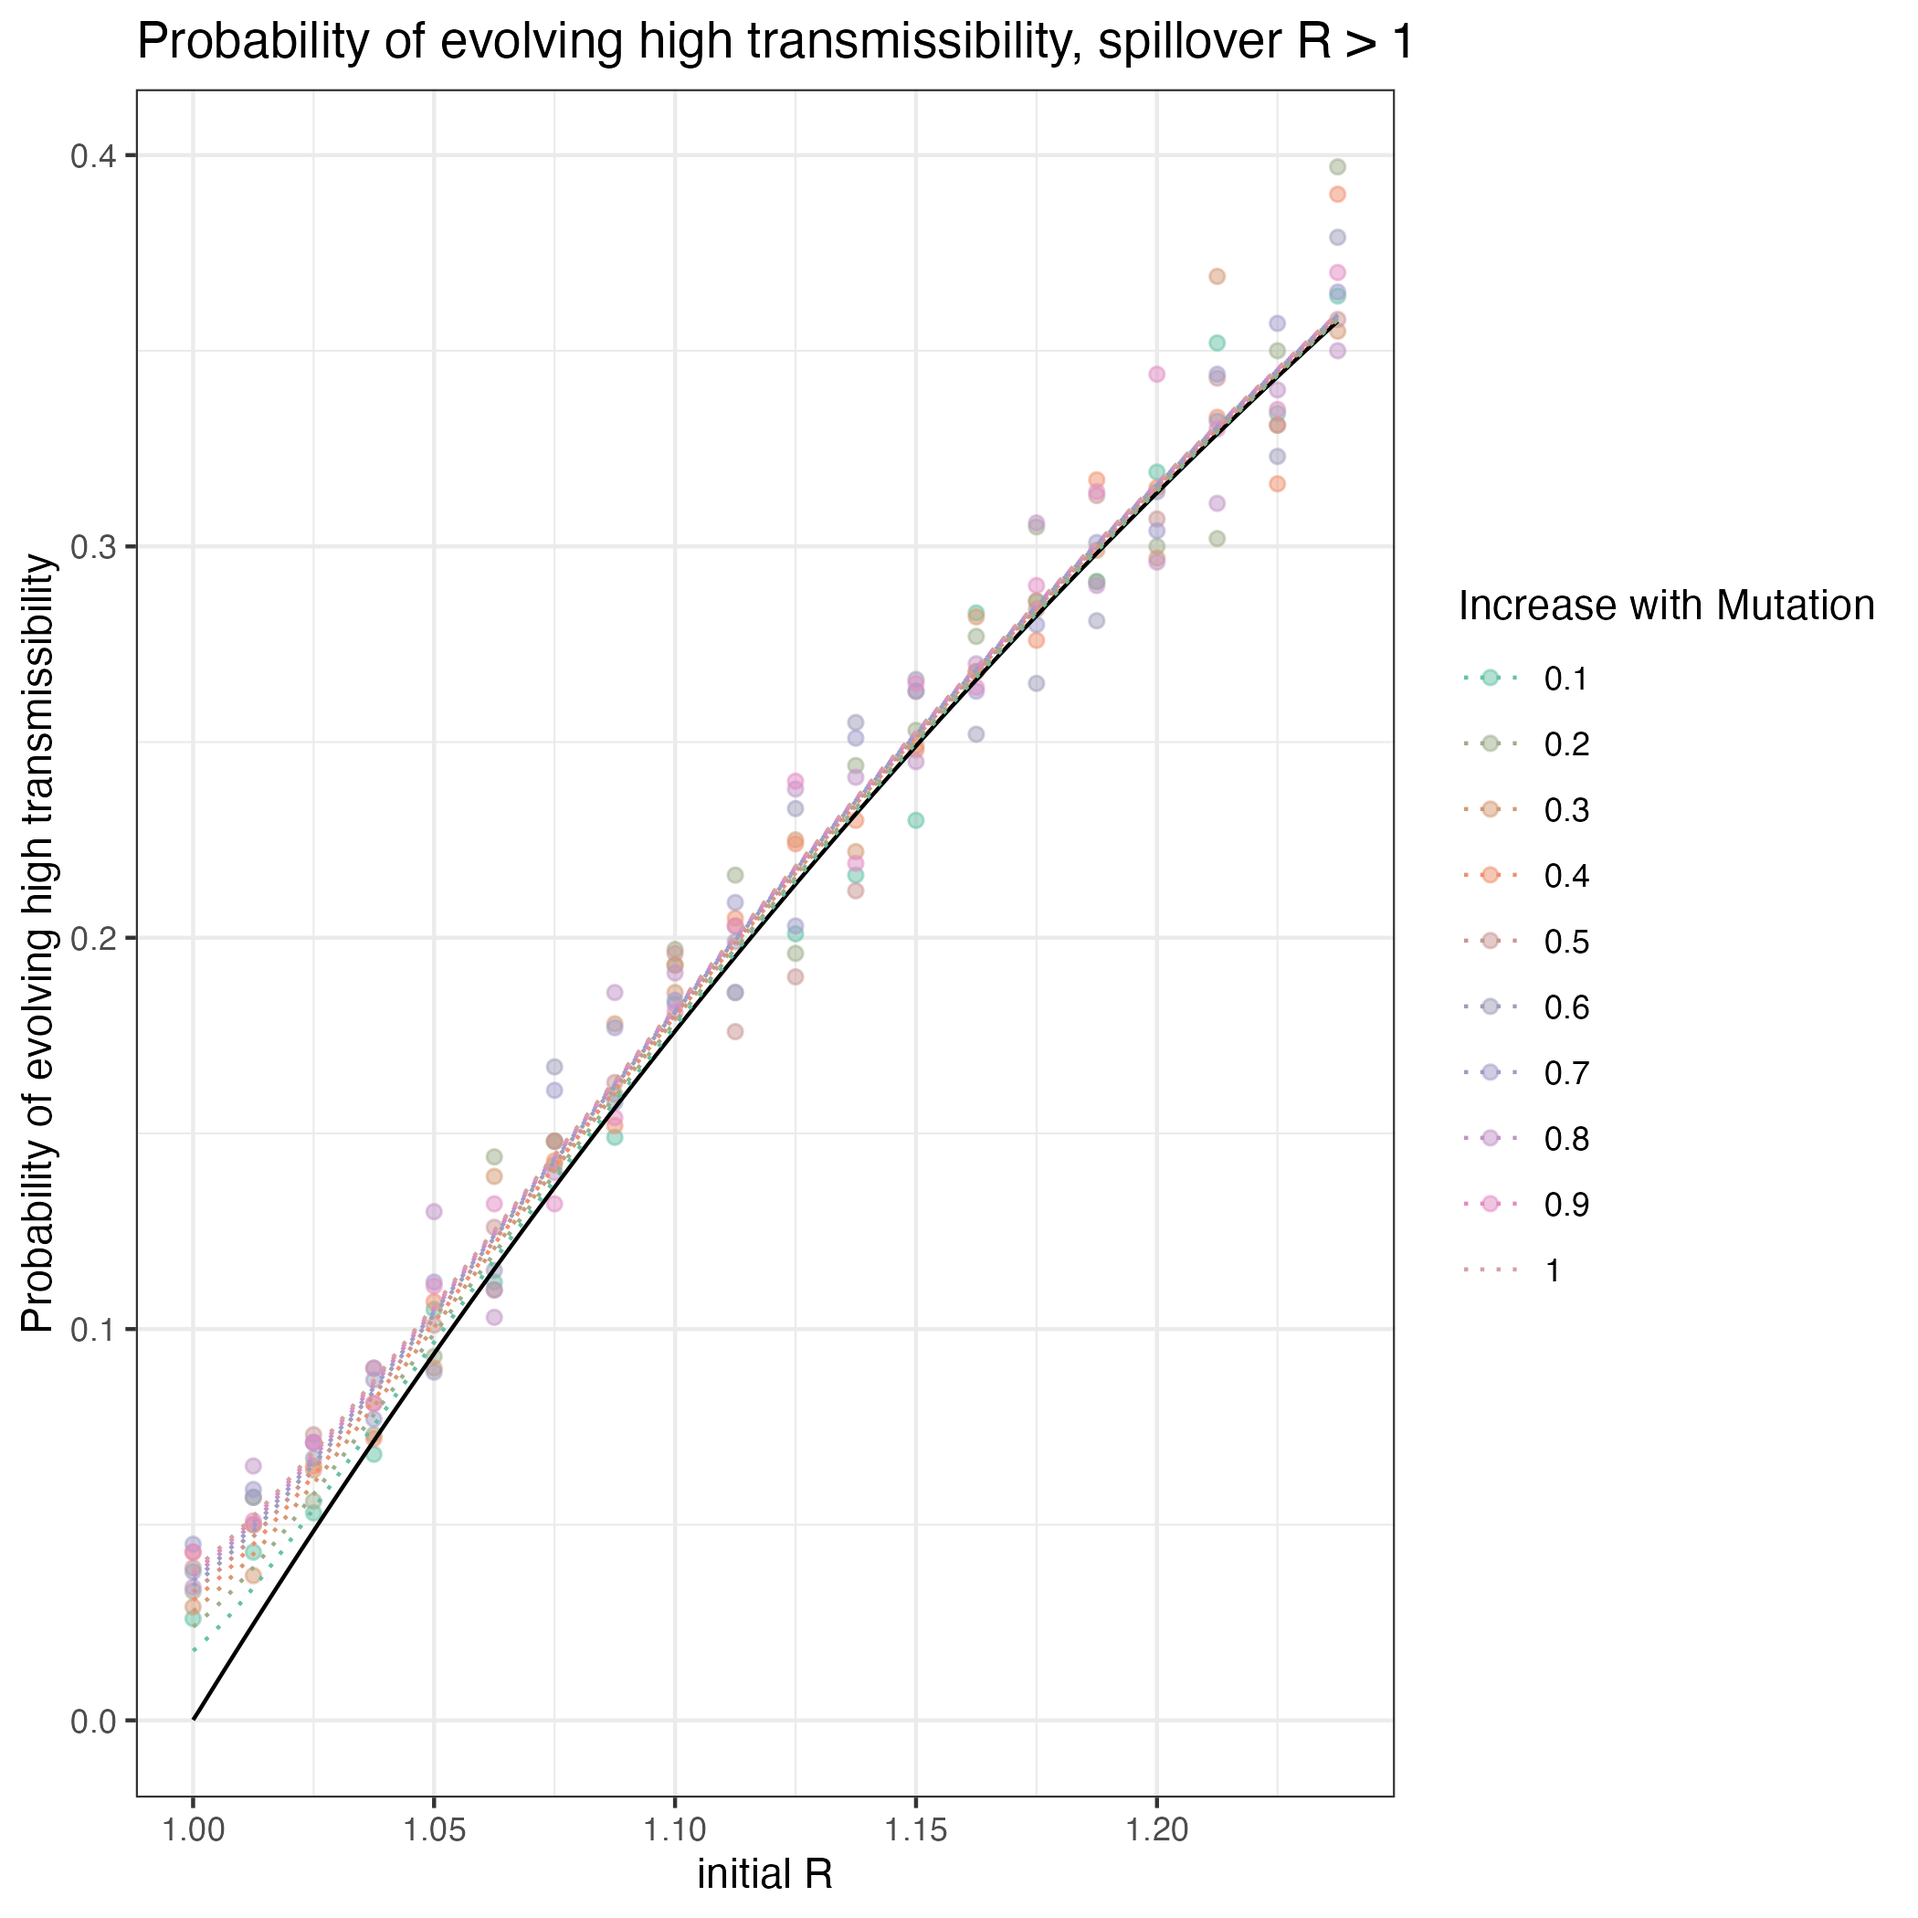
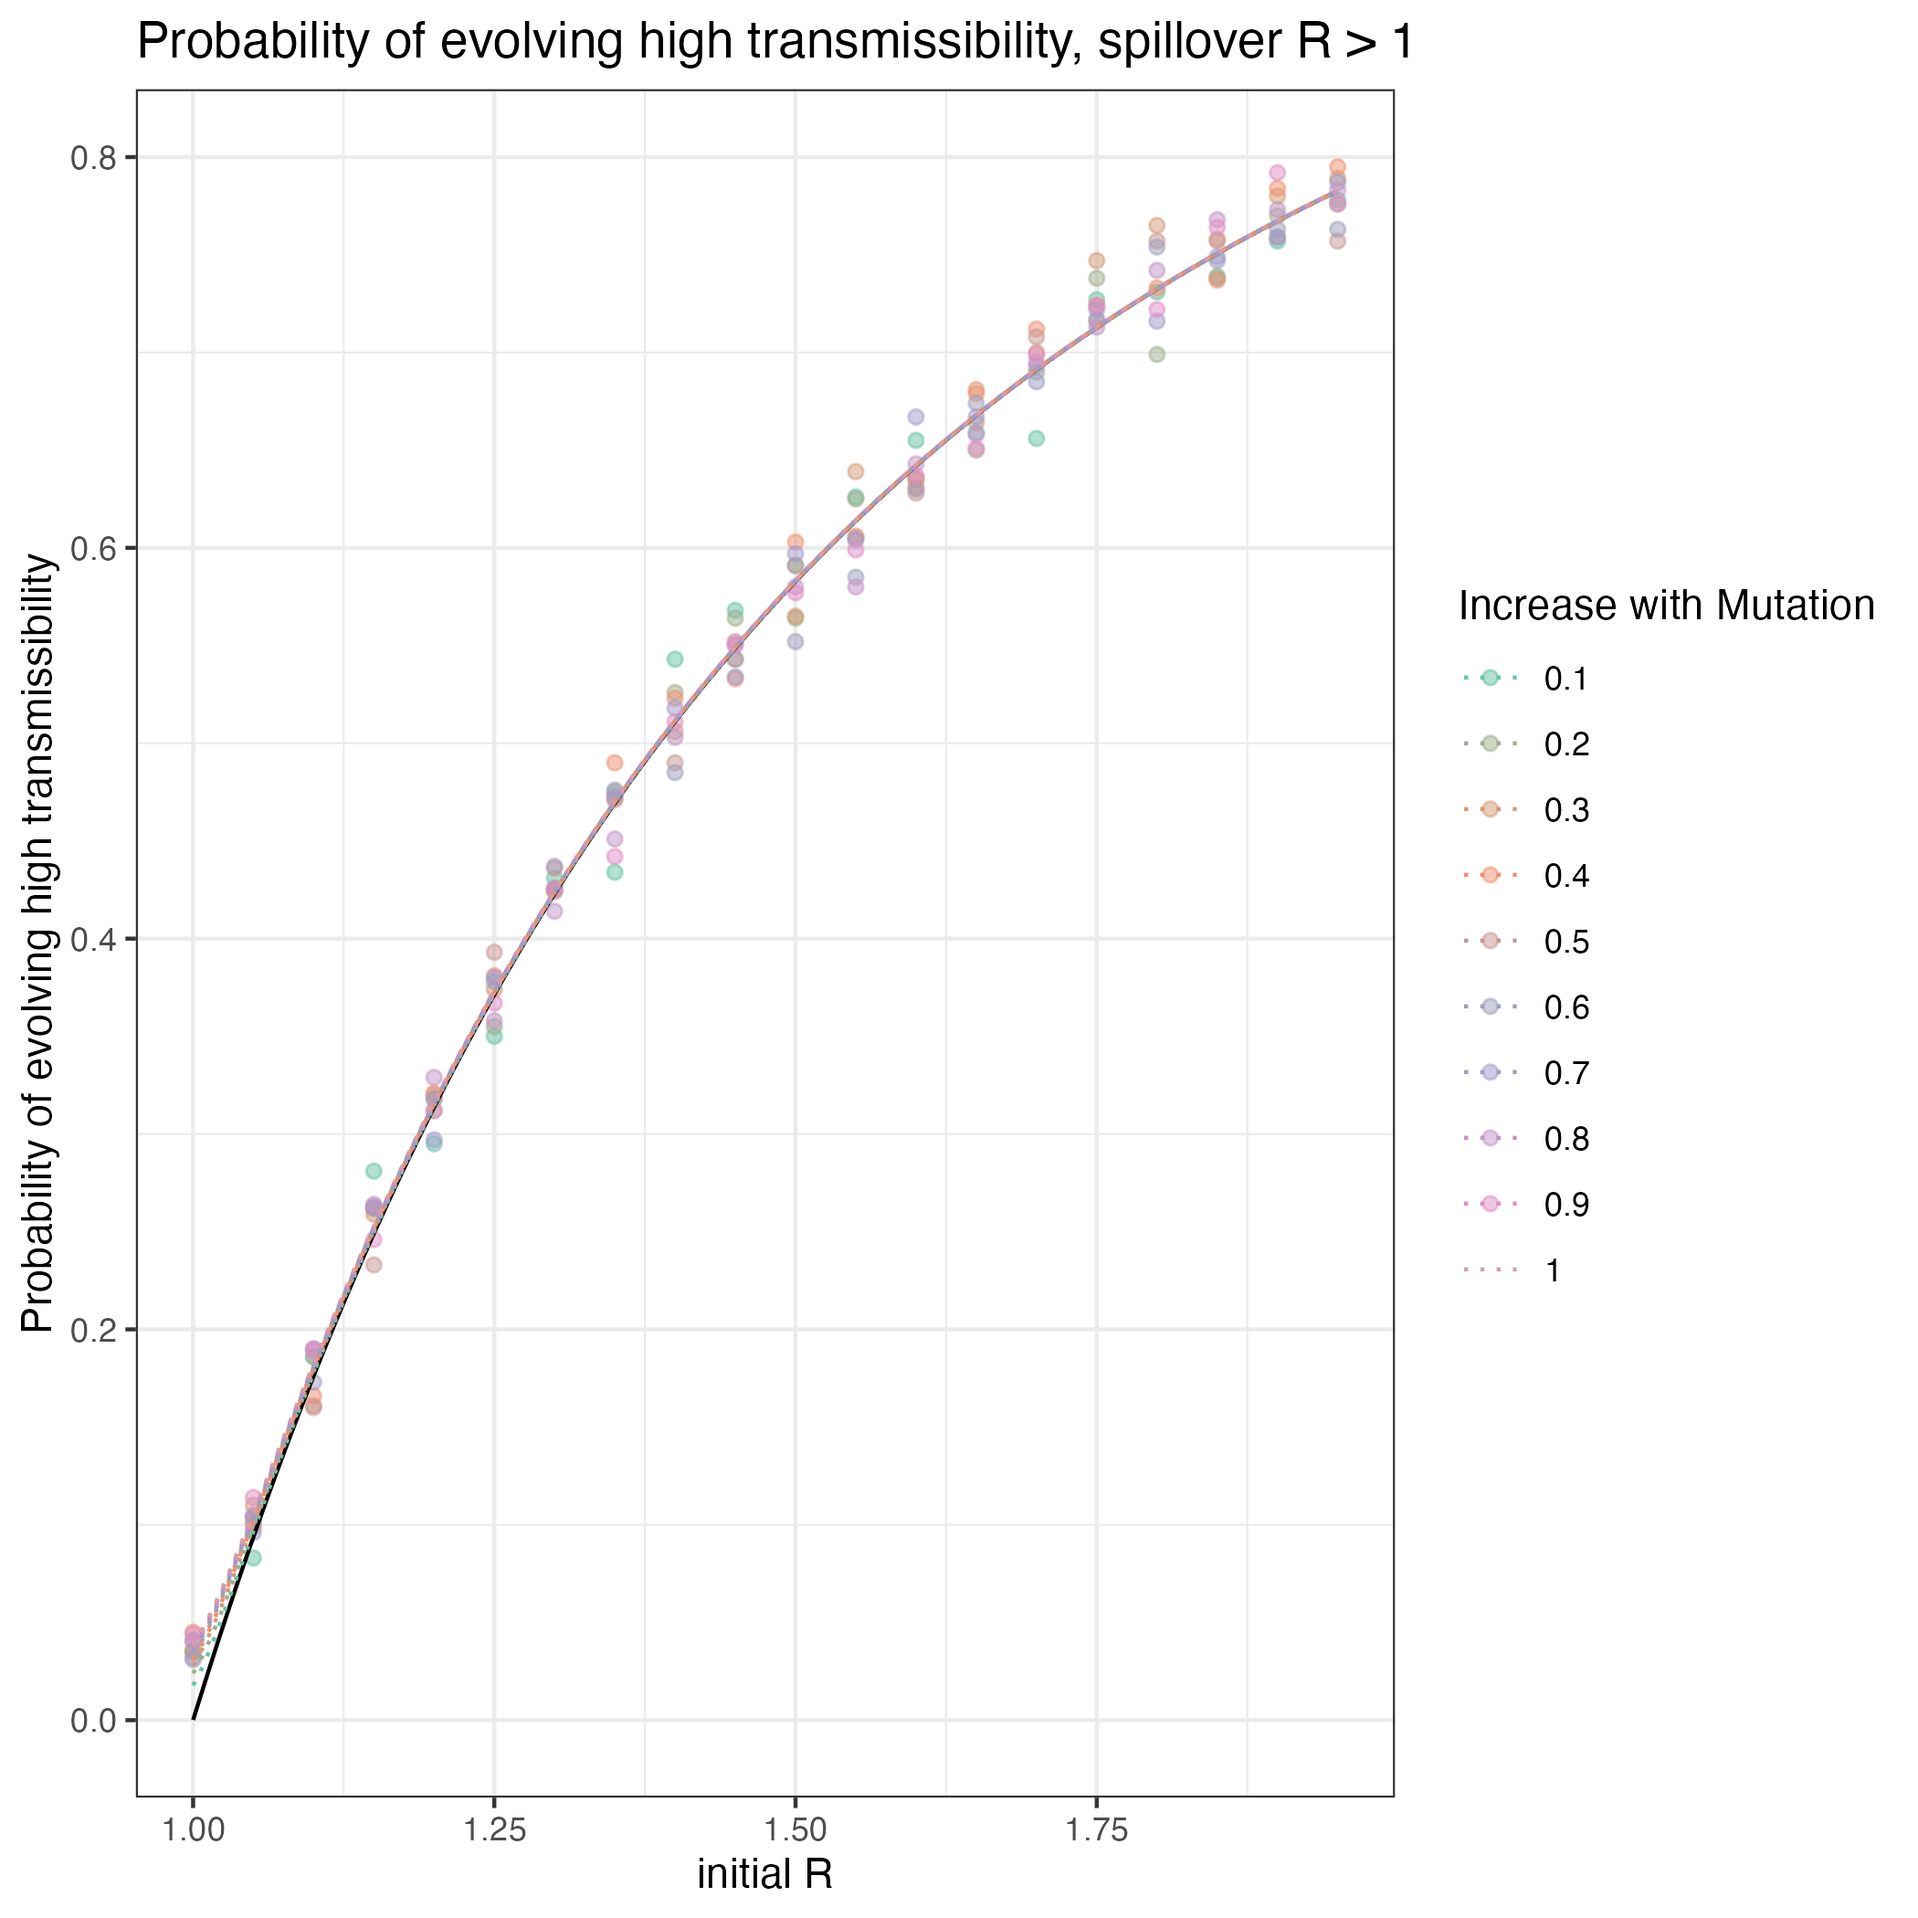
edits to proportional delta R figures for P disease emergence

diff --git a/code/project/R greater than 1/python simulations/parms.py b/code/project/R greater than 1/python simulations/parms.py
@@ -13,13 +13,13 @@ import numpy as np
 #arguments 
 
 # define matrix of arguments 
-spills = [1000] #number of spillovers 
+spills = [10**3] #number of spillovers 
 Rfinal = [3] #r of final type 
 mu = [10**(-3)] #mutation rate
 gens = [100] #number of generations
 
 #only change Rwt and deltaR with each run
-Rwt = (np.linspace(1.0,1.5, num = 20 , endpoint = False)).tolist()
+Rwt = (np.linspace(1,1.5, num = 20 , endpoint = False)).tolist()
 deltaR = [.02,.05,.1,.25, 1]       
 
 

diff --git a/code/project/R greater than 1/python simulations/single_regime.py b/code/project/R greater than 1/python simulations/single_regime.py
@@ -75,7 +75,7 @@ parmsDF = pd.DataFrame(parms_list, columns = ['Rwt', 'deltaR', 'Rfinal', 'mu', '
 outputDF = pd.concat([parmsDF, outcomesDF], axis = 1)
 
 #### save output dataframe to outcomes.csv
-file_path = "output5.csv"
+file_path = "output7.csv"
 outputDF.to_csv(file_path, index = False) #index=false prevents the csv file from writing the line indices
 
 
